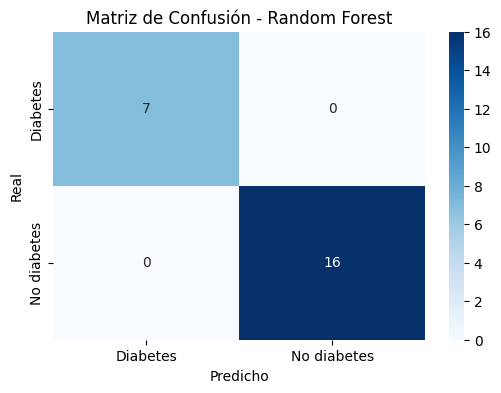
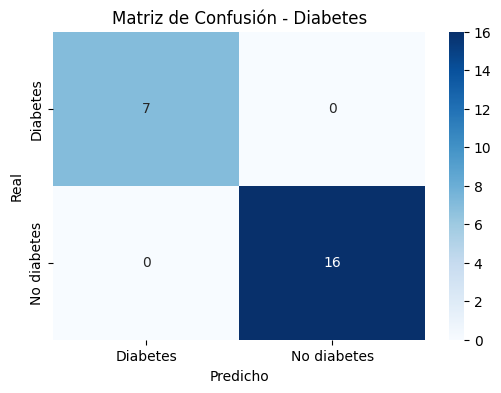
3:00 AM, Se modifica numero de decimales al momento de responder  el formulario y se agrega curva ROC para metricas de evaluacion

Changed region(s): [[0.1497, 0.0, 0.7784, 0.0611]]

diff --git a/templates/diabetes.html b/templates/diabetes.html
@@ -38,7 +38,7 @@
                 <li><b>Glucosa en ayunas:</b> numérica, requiere escalado.</li>
                 <li><b>Presión arterial:</b> numérica, requiere escalado.</li>
                 <li><b>Historial familiar:</b> categórica (Si/No).</li>
-                <li><b>Diabetes:</b> <span class="text-danger">No</span> 
+                <li><b>Diabetes:</b> <span class="text-danger">No/</span> 
                     <span class="text-success">Sí</span></li>
             </ul>
         </div>
@@ -57,6 +57,13 @@
                 <img src="{{ url_for('static', filename='confusion_matrix_diabetes.png') }}" 
                     class="img-fluid rounded border border-light" 
                     style="max-width:400px;" alt="Matriz de Confusión">
+            </div>
+
+            <h4 class="mt-4">Curva ROC</h4>
+            <div class="text-center">
+                <img src="{{ url_for('static', filename='roc_diabetes.png') }}"
+                    class="img-fluid rounded border border-light"
+                    style="max-width:400px;" alt="Curva ROC">
             </div>
         </div>
 

diff --git a/randomForest.py b/randomForest.py
@@ -1,5 +1,3 @@
-# randomForest.py
-# Entrenamiento del modelo Random Forest para Diabetes Tipo II
 import numpy as np
 import pandas as pd
 import matplotlib.pyplot as plt
@@ -9,27 +7,24 @@ from sklearn.preprocessing import LabelEncoder
 from sklearn.metrics import confusion_matrix, classification_report, accuracy_score
 from sklearn.model_selection import train_test_split
 from sklearn.ensemble import RandomForestClassifier
-from sklearn import tree
-
-# --- Rutas base ---
-BASE_DIR = Path(__file__).resolve().parent
+from sklearn.metrics import roc_curve, auc
 
 # --- Carga de datos ---
+BASE_DIR = Path(__file__).resolve().parent
 file_path = BASE_DIR / "dataset" / "dataArbol.xlsx"
 datos = pd.read_excel(file_path)
 
-# Limpieza de variables categóricas
+# Limpieza de variables
 datos["HistorialFamiliar"] = datos["HistorialFamiliar"].str.strip()
 datos["Diagnostico"] = datos["Diagnostico"].str.strip()
 
-# Separación X / y
+# Variables independientes / dependiente
 X = datos.drop("Diagnostico", axis=1)
 y = datos["Diagnostico"]
 
-# Codificación de variables categóricas
+# Codificación
 le_fam = LabelEncoder()
 X["HistorialFamiliar"] = le_fam.fit_transform(X["HistorialFamiliar"])
-
 le_diag = LabelEncoder()
 y = le_diag.fit_transform(y)
 
@@ -38,7 +33,7 @@ X_train, X_test, y_train, y_test = train_test_split(
     X, y, test_size=0.2, random_state=42, stratify=y
 )
 
-# Entrenamiento del RandomForest
+# Entrenamiento
 bosque = RandomForestClassifier(
     n_estimators=100,
     criterion="gini",
@@ -50,25 +45,20 @@ bosque = RandomForestClassifier(
 )
 bosque.fit(X_train, y_train)
 
-# --- Métricas ---
+# --- Evaluación ---
 y_pred = bosque.predict(X_test)
 acc = accuracy_score(y_test, y_pred)
-accuracy_val = round(acc * 100, 2)
+accuracy_val = round(acc * 100, 2)   # Variable global exportable
 
-report_dict = classification_report(y_test, y_pred, output_dict=True)
-reporte_df = pd.DataFrame(report_dict).transpose()
-
-# Guardar exactitud en static
+# Guardar archivo de accuracy
 with open(BASE_DIR / "static" / "accuracy_diabetes.txt", "w") as f:
     f.write(f"{accuracy_val:.2f}")
 
-# Guardar reporte como HTML en templates
+# Guardar reporte como HTML
+report_dict = classification_report(y_test, y_pred, output_dict=True)
+reporte_df = pd.DataFrame(report_dict).transpose()
 with open(BASE_DIR / "templates" / "clasificacion_diabetes.html", "w", encoding="utf-8") as f:
-    f.write(
-        reporte_df.to_html(
-            classes="table table-striped table-bordered text-white", border=0
-        )
-    )
+    f.write(reporte_df.to_html(classes="table table-striped table-bordered text-white", border=0))
 
 # Guardar matriz de confusión en static
 cm = confusion_matrix(y_test, y_pred)
@@ -78,23 +68,29 @@ sns.heatmap(cm, annot=True, fmt="d", cmap="Blues",
             yticklabels=le_diag.classes_)
 plt.xlabel("Predicho")
 plt.ylabel("Real")
-plt.title("Matriz de Confusión - Random Forest")
+plt.title("Matriz de Confusión - Diabetes")
 plt.savefig(BASE_DIR / "static" / "confusion_matrix_diabetes.png", bbox_inches="tight")
 plt.close()
 
+# roc en static
+y_prob = bosque.predict_proba(X_test)[:, 1]
 
-# --- Función para dibujar un árbol representativo ---
-def plot_tree_example():
-    estimator = bosque.estimators_[0]
-    fig, ax = plt.subplots(figsize=(15, 10))
-    tree.plot_tree(
-        estimator,
-        feature_names=X.columns,
-        class_names=le_diag.classes_,
-        filled=True,
-        rounded=True,
-        fontsize=8,
-        ax=ax
-    )
-    ax.set_title("Ejemplo de Árbol del Random Forest")
-    return fig
+    # Calcular curva ROC
+fpr, tpr, _ = roc_curve(y_test, y_prob)
+roc_auc = auc(fpr, tpr)
+
+plt.figure()
+plt.plot(fpr, tpr, label=f"AUC = {roc_auc:.2f}")
+plt.plot([0, 1], [0, 1], "k--")
+plt.xlabel("1 - Especificidad (FPR)")
+plt.ylabel("Sensibilidad (TPR)")
+plt.title("Curva ROC - Random Forest")
+plt.legend()
+plt.savefig(BASE_DIR / "static" / "roc_diabetes.png", bbox_inches="tight")
+plt.close()
+
+# --- Función predict_label() para predicciones individuales ---
+def predict_label(features, threshold=0.5):
+    prob = bosque.predict_proba(features)[0][1]  # prob de clase positiva
+    label = "Sí" if prob >= threshold else "No"
+    return label, prob

diff --git a/app.py b/app.py
@@ -121,41 +121,27 @@ def Diabetes():
         try:
             historial_num = randomForest.le_fam.transform([historial.strip()])[0]
         except ValueError:
-            return render_template("diabetes.html",
-                                   prediction="Error: valor de historial no reconocido")
+            return render_template("diabetes.html", prediction="Error: valor de historial no reconocido")
 
-        # Features formateados para el modelo
         features = np.array([[edad, imc, glucosa, presion, historial_num]])
-        
-        # Probabilidad de la clase positiva
-        proba = randomForest.bosque.predict_proba(features)[0]
-        prob_diabetes = round(proba[1], 4)  # 1 corresponde a "Diabetes"
 
-        threshold = 0.4
-        pred = 1 if prob_diabetes >= threshold else 0
-        resultado = randomForest.le_diag.inverse_transform([pred])[0]
-
-        probabilidad = prob_diabetes
+        label, prob = randomForest.predict_label(features, threshold=0.5)
+        resultado = label
+        probabilidad = f"{prob:.4f}"    
         interpretacion = "Con threshold=0.4, el modelo se vuelve más sensible (detecta más diabéticos), Pero a cambio pierde precisión en los sanos (personas sin diabetes)."
 
-    # leer exactitud desde randomForest (ya precomputada)
+    # Leer exactitud desde archivo
+    BASE_DIR = os.path.dirname(os.path.abspath(__file__))
+    with open(os.path.join(BASE_DIR, "static", "accuracy_diabetes.txt"), "r") as f:
+        accuracy = f.read().strip()
+
     return render_template(
         "diabetes.html",
         prediction=resultado,
         probabilidad=probabilidad,
         interpretacion=interpretacion,
-        accuracy=randomForest.accuracy_val
+        accuracy=accuracy
     )
-
-
-@app.route("/plot_tree")
-def plot_tree():
-    fig = randomForest.plot_tree_example()
-    buf = io.BytesIO()
-    fig.savefig(buf, format="png", bbox_inches='tight')
-    buf.seek(0)
-    plt.close(fig)
-    return send_file(buf, mimetype='image/png')
 
 # ---------------- EJECUCIÓN ----------------
 if __name__ == '__main__':
